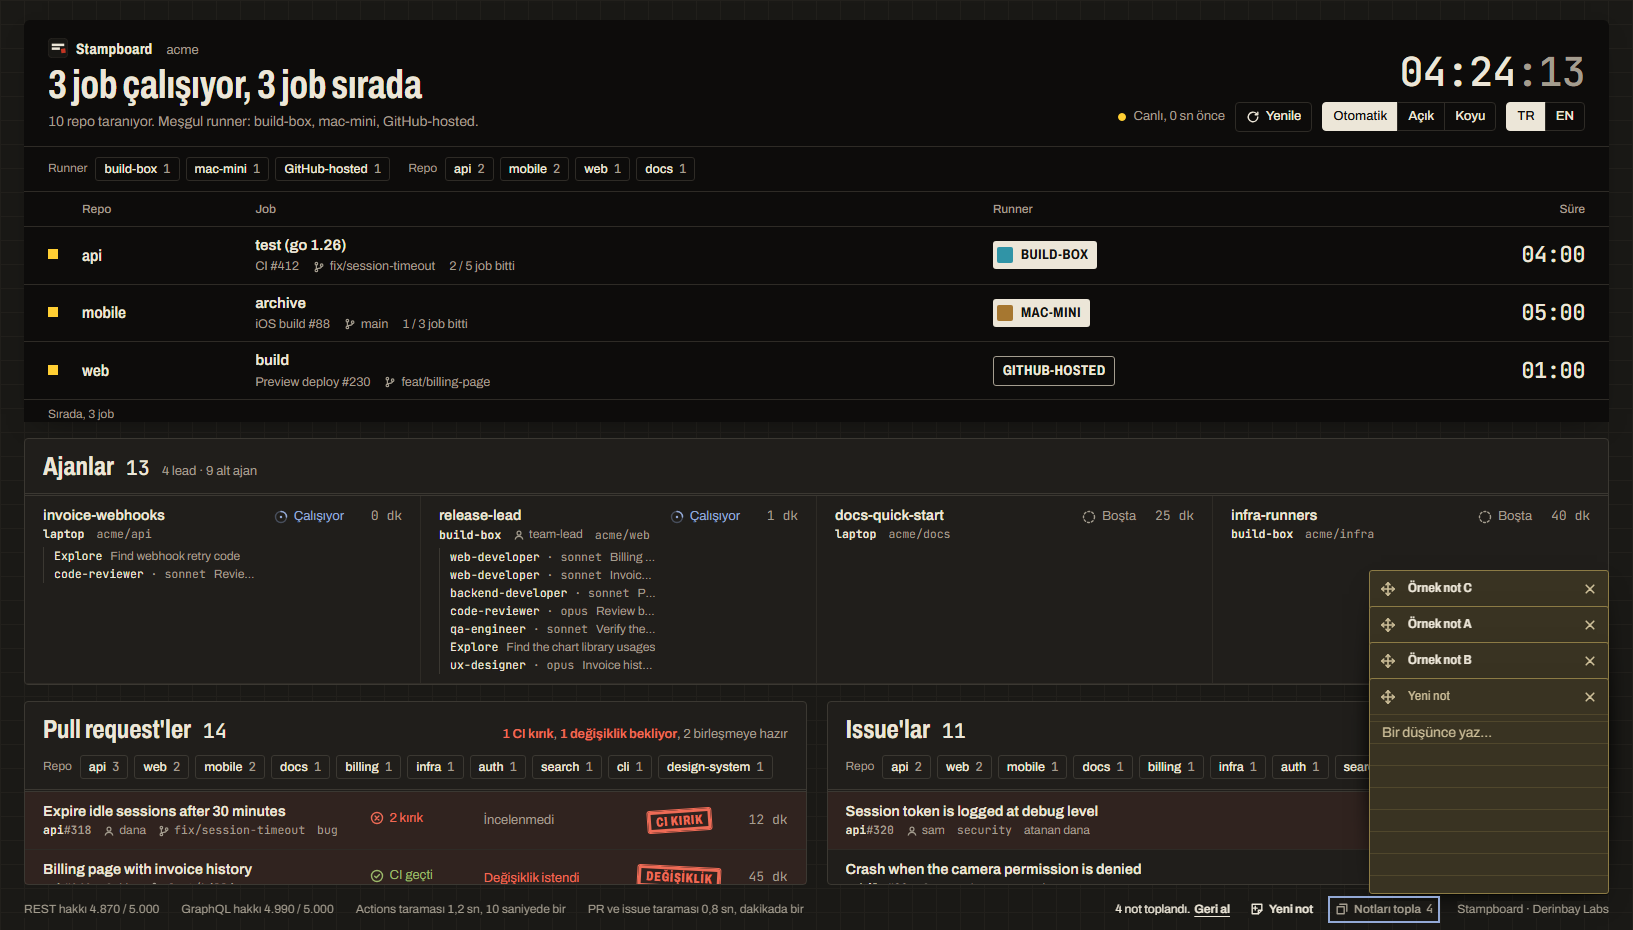
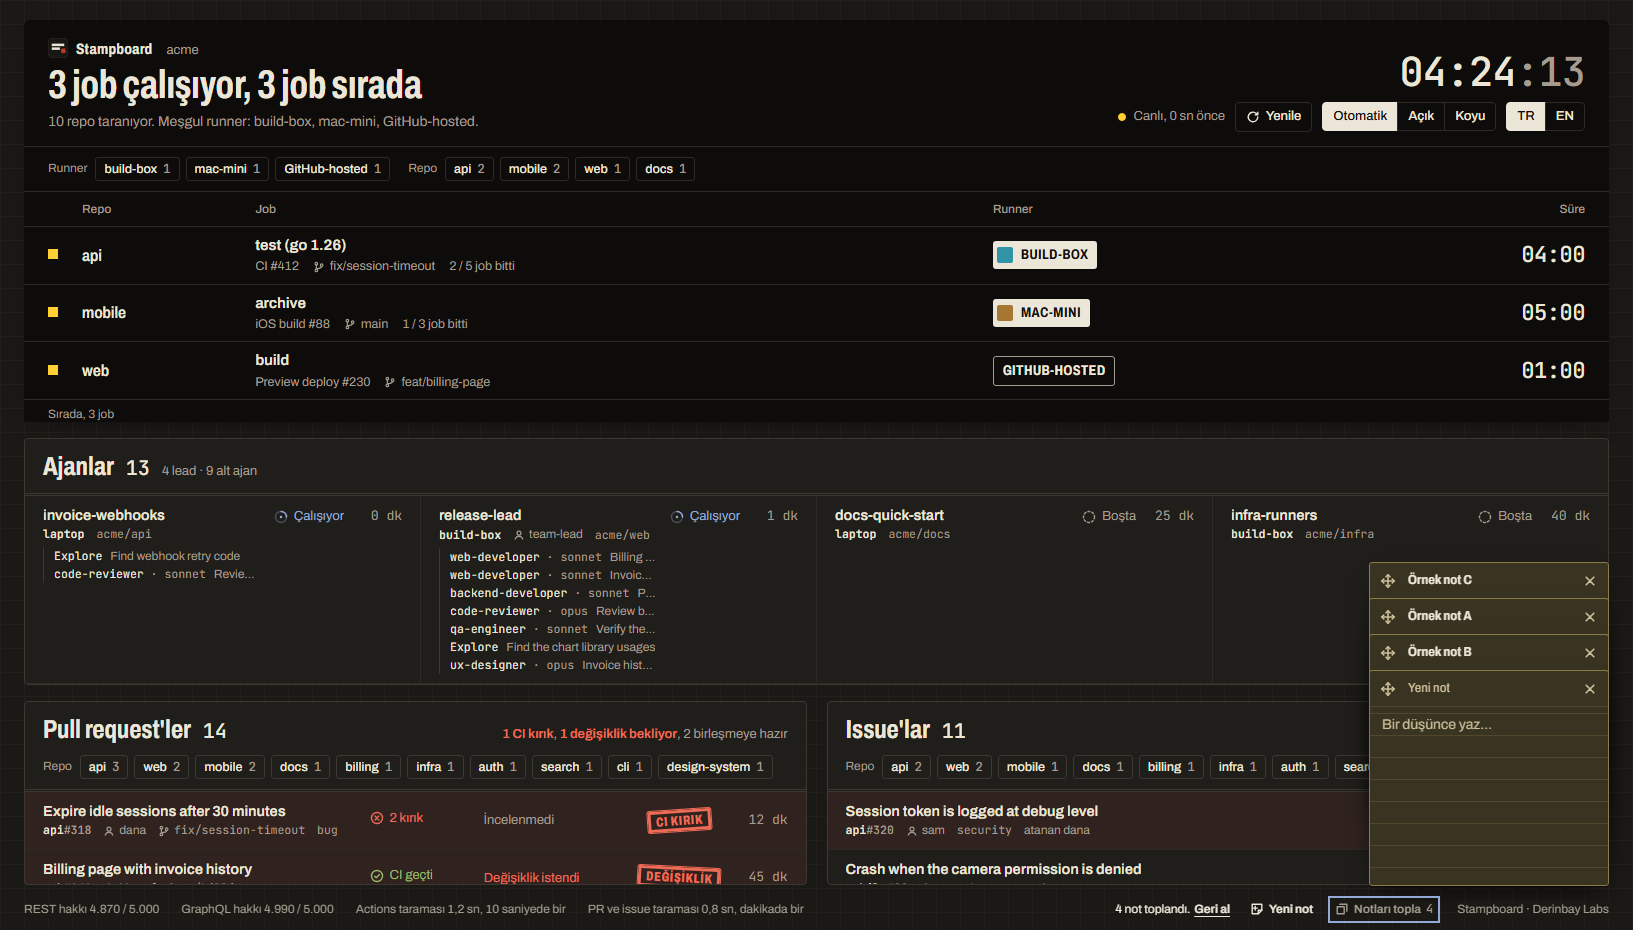
docs(design): sticky notes review fixes (#66)
Lift the Option 1 pile clear of the footer hit area, keep the 36px pile
step with extra columns, correct measured figures and name the small
target gaps.

Refs #66

Changed region(s): [[0.8432, 0.5925, 0.9994, 0.8108], [0.8432, 0.9355, 0.9994, 0.9667]]

diff --git a/docs/design/sticky-notes/mockups/option-1-dark.html b/docs/design/sticky-notes/mockups/option-1-dark.html
@@ -305,12 +305,12 @@ h1 { margin: 0; font-weight: 700; font-stretch: 72%; font-size: 40px; line-heigh
 .note.b { left: calc(36vw + 150px); top: 262px; z-index: 3; }
 .note.c { left: 6vw; bottom: 96px; }
 
-.note.d { right: 24px; bottom: 36px; z-index: 4; }
+.note.d { right: 24px; bottom: 44px; z-index: 4; }
 :root:has(#gathered:target) .note { left: auto; top: auto; right: 24px; transform: none; box-shadow: var(--note-shadow); }
-:root:has(#gathered:target) .note.c { bottom: 144px; z-index: 1; }
-:root:has(#gathered:target) .note.a { bottom: 108px; z-index: 2; }
-:root:has(#gathered:target) .note.b { bottom: 72px; z-index: 3; }
-:root:has(#gathered:target) .note.d { bottom: 36px; z-index: 4; }
+:root:has(#gathered:target) .note.c { bottom: 152px; z-index: 1; }
+:root:has(#gathered:target) .note.a { bottom: 116px; z-index: 2; }
+:root:has(#gathered:target) .note.b { bottom: 80px; z-index: 3; }
+:root:has(#gathered:target) .note.d { bottom: 44px; z-index: 4; }
 :root:has(#gathered:target) .n-tip, :root:has(#gathered:target) .note.b .n-move { outline: none; }
 :root:has(#gathered:target) .n-tip { display: none; }
 :root:has(#gathered:target) #gatherBtn { outline: 2px solid var(--focus); outline-offset: 3px; }

diff --git a/docs/design/sticky-notes/mockups/option-1-light.html b/docs/design/sticky-notes/mockups/option-1-light.html
@@ -305,12 +305,12 @@ h1 { margin: 0; font-weight: 700; font-stretch: 72%; font-size: 40px; line-heigh
 .note.b { left: calc(36vw + 150px); top: 262px; z-index: 3; }
 .note.c { left: 6vw; bottom: 96px; }
 
-.note.d { right: 24px; bottom: 36px; z-index: 4; }
+.note.d { right: 24px; bottom: 44px; z-index: 4; }
 :root:has(#gathered:target) .note { left: auto; top: auto; right: 24px; transform: none; box-shadow: var(--note-shadow); }
-:root:has(#gathered:target) .note.c { bottom: 144px; z-index: 1; }
-:root:has(#gathered:target) .note.a { bottom: 108px; z-index: 2; }
-:root:has(#gathered:target) .note.b { bottom: 72px; z-index: 3; }
-:root:has(#gathered:target) .note.d { bottom: 36px; z-index: 4; }
+:root:has(#gathered:target) .note.c { bottom: 152px; z-index: 1; }
+:root:has(#gathered:target) .note.a { bottom: 116px; z-index: 2; }
+:root:has(#gathered:target) .note.b { bottom: 80px; z-index: 3; }
+:root:has(#gathered:target) .note.d { bottom: 44px; z-index: 4; }
 :root:has(#gathered:target) .n-tip, :root:has(#gathered:target) .note.b .n-move { outline: none; }
 :root:has(#gathered:target) .n-tip { display: none; }
 :root:has(#gathered:target) #gatherBtn { outline: 2px solid var(--focus); outline-offset: 3px; }

diff --git a/docs/design/sticky-notes.md b/docs/design/sticky-notes.md
@@ -60,7 +60,7 @@ controls live and what "gather" does.
 |---|---|---|---|---|
 | **1. Corner pile** (recommended) | [light EN](sticky-notes/mockups/option-1-light.html) · [dark TR](sticky-notes/mockups/option-1-dark.html) | light: [spread](sticky-notes/checks/option-1-light-scattered-1633x930.png) · [gathered](sticky-notes/checks/option-1-light-gathered-1633x930.png); dark: [spread](sticky-notes/checks/option-1-dark-scattered-1633x930.png) · [gathered](sticky-notes/checks/option-1-dark-gathered-1633x930.png) | One press gathers everything into one predictable 240px column in the bottom-right corner. Every note stays on the page and its title stays readable. The controls live in the footer, which no section-resize option folds or moves. Adds no component beyond the note. | The pile covers the right end of the Issues ledger: ages and seals of the bottom rows. Only the front note's text is readable in the pile; the others show their title line. The footer buttons are small text (17px visual, 44px hit area). |
 | **2. Board line-up** | [light EN](sticky-notes/mockups/option-2-light.html) · [dark TR](sticky-notes/mockups/option-2-dark.html) | light: [spread](sticky-notes/checks/option-2-light-scattered-1633x930.png) · [lined up](sticky-notes/checks/option-2-light-gathered-1633x930.png); dark: [spread](sticky-notes/checks/option-2-dark-scattered-1633x930.png) · [lined up](sticky-notes/checks/option-2-dark-gathered-1633x930.png) | Every gathered note is fully readable, side by side. Gathering can be undone at any time with **Put back**, which returns every note to where it was. The controls sit with the board's other tools. | The row covers the board's runner and time columns, the live data the wallboard exists for. The tools row grows by about 270px, so the headline loses that width. If #72 picks the Shelf, the two buttons must move to the shelf with the board's tools. |
-| **3. Edge drawer** | [light EN](sticky-notes/mockups/option-3-light.html) · [dark TR](sticky-notes/mockups/option-3-dark.html) | light: [spread](sticky-notes/checks/option-3-light-scattered-1633x930.png) · [drawer](sticky-notes/checks/option-3-light-gathered-1633x930.png); dark: [spread](sticky-notes/checks/option-3-dark-scattered-1633x930.png) · [drawer](sticky-notes/checks/option-3-dark-gathered-1633x930.png) | Gathering clears the page completely once the drawer is closed. The drawer lists every note at full size and scrolls, so it holds any number. Nothing depends on the section layout. | Gathered notes are out of sight when the drawer is closed, which works against "write thoughts where I look". The open drawer covers a 288px strip on the right. The tab overlaps 20px of the sheets' right edge. It adds two components (tab and drawer) and drawer focus handling. |
+| **3. Edge drawer** | [light EN](sticky-notes/mockups/option-3-light.html) · [dark TR](sticky-notes/mockups/option-3-dark.html) | light: [spread](sticky-notes/checks/option-3-light-scattered-1633x930.png) · [drawer](sticky-notes/checks/option-3-light-gathered-1633x930.png); dark: [spread](sticky-notes/checks/option-3-dark-scattered-1633x930.png) · [drawer](sticky-notes/checks/option-3-dark-gathered-1633x930.png) | Gathering clears the page completely once the drawer is closed. The drawer lists every note at full size and scrolls, so it holds any number. It does not depend on the section layout; once #72 ships, the fixed tab can sit over a right-edge spine or a head's corner button, so its vertical place may need a rule. | Gathered notes are out of sight when the drawer is closed, which works against "write thoughts where I look". The open drawer covers a 288px strip on the right. The tab overlaps 20px of the sheets' right edge. It adds two components (tab and drawer) and drawer focus handling. |
 
 **Recommended default: Option 1.** It is the request taken literally: notes live on the page, and
 one press puts them all in one place where they stay visible. The pile costs the least space of
@@ -82,17 +82,19 @@ four notes are piled and focus is on Gather notes.
   count. Ink on paper at 12px/600, 17px tall like the footer line, with a 44px hit area that
   reaches 15px up and 12px down to the viewport edge. The footer keeps its 17px height (measured).
 - **Where a new note opens:** at the front of the pile spot: 24px from the right edge, its bottom
-  36px above the viewport bottom, just above the footer line. A new note on top of the pile is
+  44px above the viewport bottom, clear of the footer buttons' hit area. A new note on top of the pile is
   simply the pile's newest card; the owner drags it out if he wants it elsewhere.
 - **Gather:** every note moves to the pile in the bottom-right corner, at `right: 24px`. The front
-  note's bottom is 36px above the viewport bottom. Each older note sits 36px higher, so its header
+  note's bottom is 44px above the viewport bottom. Each older note sits 36px higher, so its header
   (Move, title, Delete) shows above the next one. The front note is the one touched last; the pile
   keeps the notes' z-order.
 - **Pile size:** `216 + (n − 1) × 36` px tall. The pile top never goes above 148px, which is below
-  the board's tools row. So at 1920x1080 up to 19 notes pile at a 36px step, and at 1633x930 up to
-  15. Beyond that the step shrinks evenly to fit, down to 10.8px for the 50-note maximum at 930px
-  tall. Below a 20px step the titles of the back notes are hidden, and the count on Gather notes
-  still says how many there are.
+  the board's tools row. So at 1920x1080 up to 19 notes fit in one pile column at the 36px step, and at 1633x930
+  up to 15. The step never shrinks, so every back note's header (Move, title, Delete) stays fully
+  exposed. Further notes start a second column 252px to the left, then a third, filled the same
+  way: the 50-note maximum takes 3 columns at 1080px tall and 4 at 930px.
+- **With #72's Shelf:** if the Shelf wins, the pile's bottom offset adds the shelf line's height,
+  so the pile sits above the shelf, not on it.
 - **What the pile covers:** at 1920x1080 with 4 notes, a 240x324 block over the right end of the
   Issues ledger (its age and seal columns) and the bottom-right corner of the Agents sheet.
 - **After gathering:** the pile positions become the notes' stored positions. Undo, offered for
@@ -109,7 +111,7 @@ the four notes stand in a row under the board head, and focus is on Put back.
   **New note** and **Line up notes** with the mono count. After a line-up, Line up notes is
   replaced by **Put back** (back-arrow icon) in the same place. The tools row grows from 432px to
   700px (EN) and from 467px to 706px (TR). The headline keeps one line (41px tall) at 1633px wide (measured:
-  813px wide in TR).
+  807px wide in TR).
 - **Where a new note opens:** in the first free line-up slot, which is the rightmost slot no note
   overlaps.
 - **Gather (line up):** the notes stand side by side under the board head, top edge at 144px, 12px
@@ -231,7 +233,9 @@ drawer is open with the four notes in it, and focus is on its close button.
 - A window narrower or shorter than a note plus margins (256x232px) shows the note at the 8px
   margin.
 - The gathered places are defined from the edges (section 4), so they hold at any size. The two
-  mockup sizes show this: the same file renders at 1920x1080 and 1633x930 with every note in view.
+  mockup sizes show this: the same file renders at 1920x1080 and 1633x930 with every note on the
+  page in view. Notes inside Option 3's drawer are in a scrolling list, so the fourth one is below
+  the fold of the drawer at both sizes.
 
 ### 5.7 Coexistence with section collapse and expand (#65, decision #72)
 
@@ -257,7 +261,7 @@ not added; see section 12.
 |---|---|---|
 | Empty (no notes) | Nothing renders; the page is unchanged. | New note enabled. Gather shows count 0 and is disabled with "No notes yet" (Option 3's tab still opens an empty drawer that says "No notes yet. New note adds one."). |
 | Loading | Browser storage: notes render with the page, before the first GitHub scan. File store: notes appear when the local read returns; until then New note is disabled for at most that read. | Gather disabled until loaded. |
-| Error: storage unavailable or full | The note keeps its text in memory and its header shows a seal-red "Not saved" with a warning icon (not colour alone). Saving retries on the next edit. Nothing typed is dropped silently. | The status line says "Notes can't be saved on this machine. Copy the text before closing the tab." and stays until a save succeeds. |
+| Error: storage unavailable or full | The note keeps its text in memory and its header shows "Not saved" with a warning icon, in `--note-ink` (`--seal` on `--note` is only 4.3:1 light and 4.1:1 dark, below 4.5:1). Saving retries on the next edit. Nothing typed is dropped silently. | The status line says "Notes can't be saved on this machine. Copy the text before closing the tab." and stays until a save succeeds. |
 | Partial data | A stored note with an invalid position is clamped (section 5.6). An unreadable record is skipped and kept unchanged in storage. | Count excludes skipped records. |
 | Offline (GitHub unreachable) | Notes work fully: they never depend on the GitHub scan. | Unchanged. With the file store and the local server down: the Error row. |
 | Section folded or enlarged (#72) | Unchanged (section 5.7). | Unchanged. |
@@ -300,7 +304,7 @@ The section sizes match the default page exactly, so the notes add nothing to th
 |---|---|---|---|---|---|
 | Default 1920x1080 (master, demo data) | 526 | 246 | 210 | 17 | — |
 | Default 1633x930 | 402 | 246 | 184 | 17 | — |
-| Every option, both states, 1920x1080 | 526 | 246 | 210 | 17 | all inside the viewport, each on top at its header (`elementFromPoint`) |
+| Every option, both states, 1920x1080 | 526 | 246 | 210 | 17 | every note on the page inside the viewport and on top at its header (`elementFromPoint`); Option 3's open drawer scrolls its 4th note (expected) |
 | Every option, both states, 1633x930 | 402 | 246 | 184 | 17 | the same; Option 3's open drawer scrolls its 4th note (expected) |
 
 - Notes over sections (spread state): A and B over the board, C over the Agents sheet and the Pull
@@ -359,7 +363,8 @@ The count `n` uses the page's `Intl.NumberFormat` (`tr-TR` or `en-US`).
   | Option 1 footer buttons (`--ink` on `--paper`) | 14.4:1 | 14.1:1 |
   | Option 3 tab label (`--ink` on `--sheet`); count (`--muted` on `--sheet`) | ≥ 15:1; 6.0:1 | ≥ 12:1; 6.2:1 |
 
-- **Target size:** Move and Delete are 32x32px with a 44x44px hit area. Option 1's footer buttons
+- **Target size:** Move and Delete are 32x32px with a 44x44px hit area (in Option 1's pile, see
+  section 12). Option 1's footer buttons
   are 17px tall with a 44px hit area (15px up, 12px down to the viewport edge). Option 2's board
   buttons are the existing 32px `.btn`s, as Refresh is today. Option 3's tab parts are 44px wide.
 - **Not colour alone:** "Not saved" is a word and an icon. A lifted note has a stronger shadow and
@@ -424,5 +429,12 @@ Web only, on desktop evergreen browsers. Pointer Events cover mouse, pen and tou
 - **Option 1 footer hit area:** 44px only because the footer sits 12px above the viewport edge; if
   #72 or a later change moves the footer up, the hit area must be rechecked. Decides: ux-designer
   at implementation review.
+- **Pile header targets (Option 1):** in the pile, each back note shows a 36px header strip; its
+  32px Move and Delete are fully visible, but their 44px hit area is cut to about 32x38px by the
+  note in front. That is above WCAG 2.5.8's 24px and below the house 44px bar. Decides:
+  ux-designer at implementation review.
+- **Small buttons in Options 2 and 3:** Option 2's board buttons are the existing 32px `.btn`
+  height, and the drawer's icon buttons are 30px wide with a 34x44px hit area. Both are above
+  WCAG's 24px and below the house 44px bar. Decides: ux-designer, if the CEO picks either option.
 - **Option 3 tab overlap:** the 44px tab covers 20px of the sheets' right edge, which in the
   default layout is row padding, not text. Decides: ux-designer, if the CEO picks Option 3.
